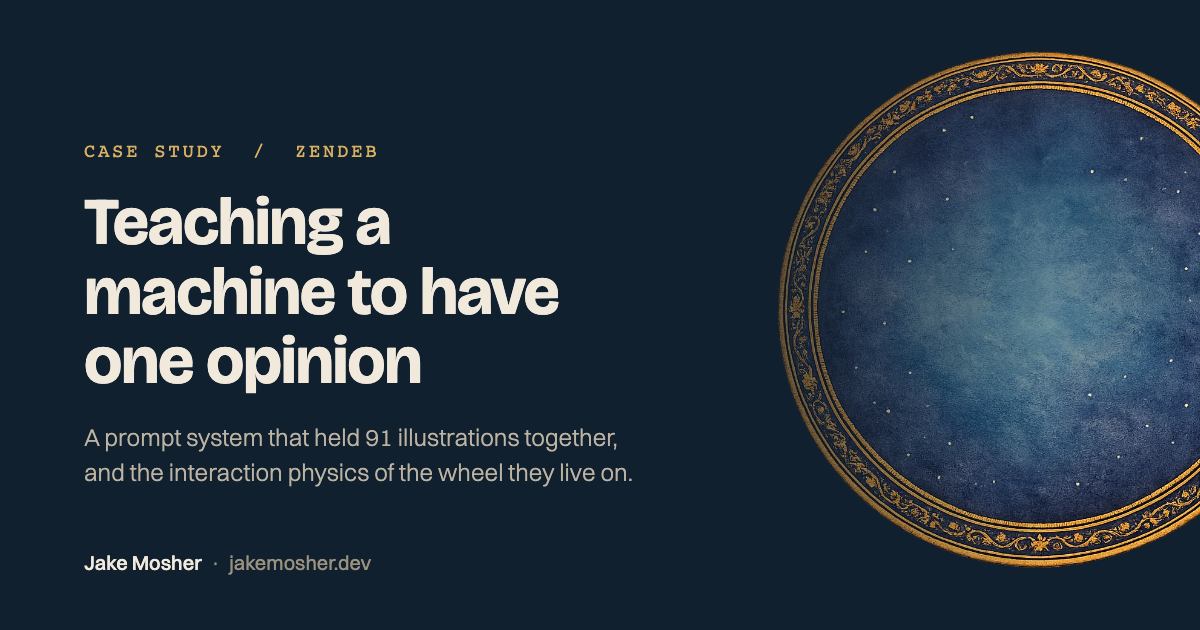
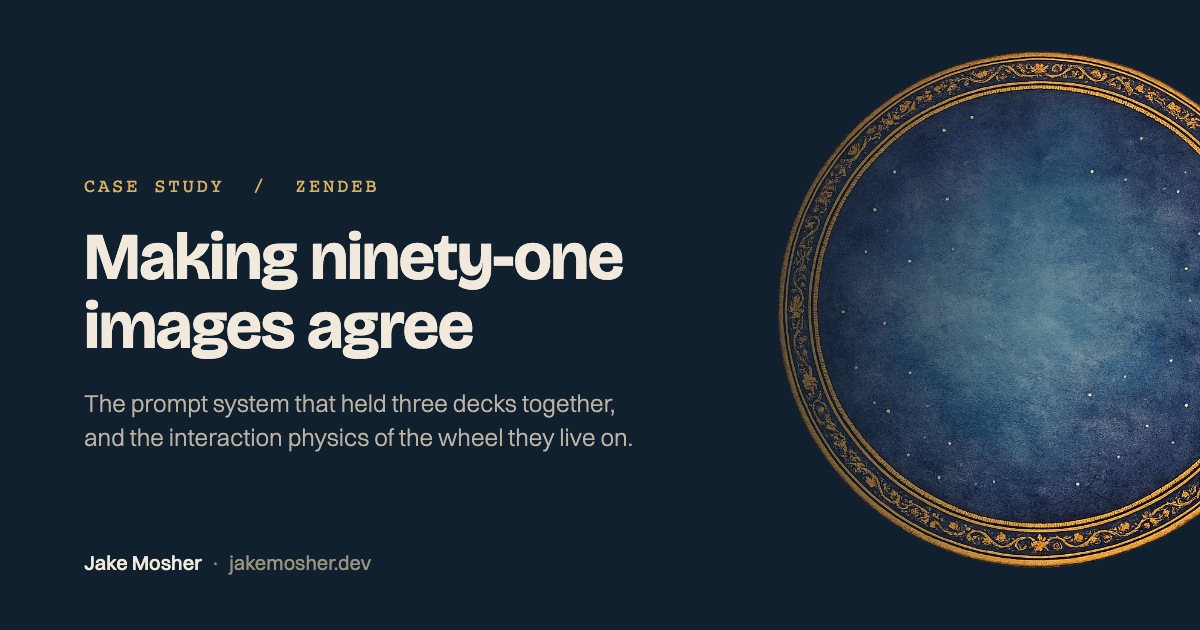
fix: say "case study" without an eyebrow, and retitle the piece
The card should say what it is; the tell was the tiny uppercase tracked
treatment, not the words. Replaced with a sentence-case line in the body
face: "Case study · Zendeb, 2026".

Retitled from "Teaching a machine to have one opinion". That title was
ambiguous, since "opinion" could mean a point of view, a preference, or
an editorial stance, when what is meant is one consistent hand. It was
also inaccurate: "teaching" implies training or fine-tuning, and no
model was trained here, only constrained. "Making ninety-one images
agree" states the actual thesis with a number a reader can check.

The summary no longer repeats the count now that the title carries it.
OG card re-rendered; emitted page metadata updates from caseStudies.ts
automatically.

Changed region(s): [[0.0617, 0.2111, 0.5242, 0.7841]]

diff --git a/src/content/caseStudies.ts b/src/content/caseStudies.ts
@@ -47,12 +47,12 @@ export type CaseStudy = {
 
 const zendeb: CaseStudy = {
   slug: "zendeb",
-  title: "Teaching a machine to have one opinion",
+  title: "Making ninety-one images agree",
   client: "Zendeb",
   role: "Design engineer, sole builder",
   year: "2026",
   summary:
-    "Building a repeatable system for AI-generated artwork across three decks and 91 illustrations, then hand-tuning the interaction physics of the wheel it lives on.",
+    "Building a repeatable system for AI-generated artwork across three decks, then hand-tuning the interaction physics of the wheel it lives on.",
   lede: "Two problems sat at opposite ends of the same site. Hundreds of illustrations had to look like they came from one artist, and a spinning wheel had to feel good enough that people would use it twice. Neither was solved by writing better prompts or reaching for an easing curve.",
   stack: ["WordPress", "PHP", "Vanilla JS", "SVG", "AI image generation"],
   liveUrl: "https://zendeb.com",

diff --git a/og-case-study-zendeb.source.html b/og-case-study-zendeb.source.html
@@ -65,8 +65,8 @@
     <div class="fade"></div>
     <div class="copy">
       <div class="eyebrow">Case study &nbsp;/&nbsp; Zendeb</div>
-      <h1>Teaching a machine to have one opinion</h1>
-      <div class="sub">A prompt system that held 91 illustrations together, and the interaction physics of the wheel they live on.</div>
+      <h1>Making ninety-one images agree</h1>
+      <div class="sub">The prompt system that held three decks together, and the interaction physics of the wheel they live on.</div>
     </div>
     <div class="byline"><b>Jake Mosher</b> &nbsp;·&nbsp; jakemosher.dev</div>
   </div>

diff --git a/src/components/portfolio/CaseStudyTeaser.module.css b/src/components/portfolio/CaseStudyTeaser.module.css
@@ -28,6 +28,21 @@
 }
 
 
+/* Says what the card is, in the body face at sentence case. The tell the
+   absolute bans name is the tiny uppercase tracked eyebrow treatment, not the
+   words themselves, so this carries the same information without it. */
+.kind {
+  margin: 0 0 var(--spacing-2xs);
+  font-family: var(--font-body);
+  font-size: var(--font-size-sm);
+  color: var(--color-text-muted);
+}
+
+.kind span {
+  margin: 0 0.15em;
+  color: var(--color-text-subtle);
+}
+
 .title {
   margin: 0 0 0.6rem;
   font-family: var(--font-display);

diff --git a/src/components/portfolio/CaseStudyTeaser.tsx b/src/components/portfolio/CaseStudyTeaser.tsx
@@ -10,6 +10,9 @@ export function CaseStudyTeaser({ study }: Props) {
   return (
     <section className={styles.wrap} aria-labelledby="case-study-teaser-title">
       <Link to={`/case-study/${study.slug}`} className={styles.card}>
+        <p className={styles.kind}>
+          Case study <span aria-hidden="true">&middot;</span> {study.client}, {study.year}
+        </p>
         <h2 id="case-study-teaser-title" className={styles.title}>
           {study.title}
         </h2>
